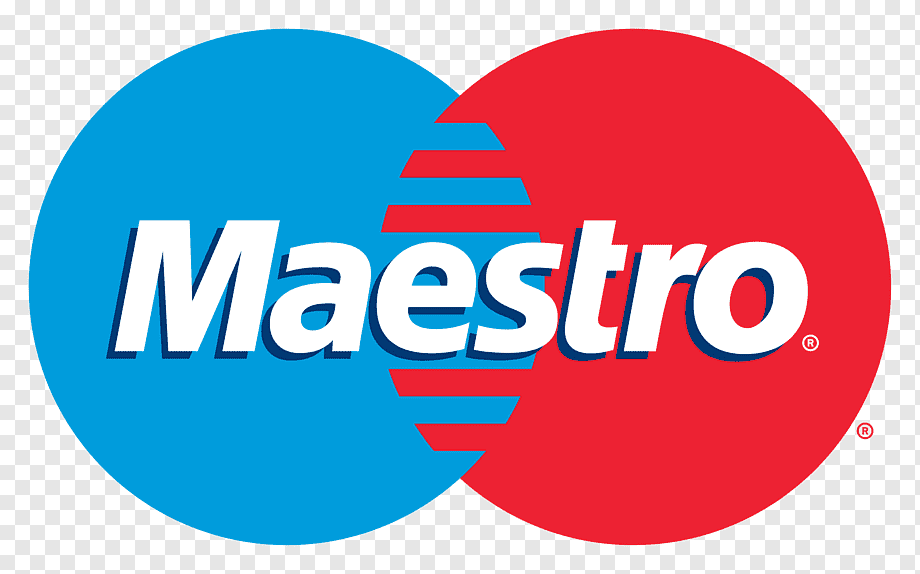
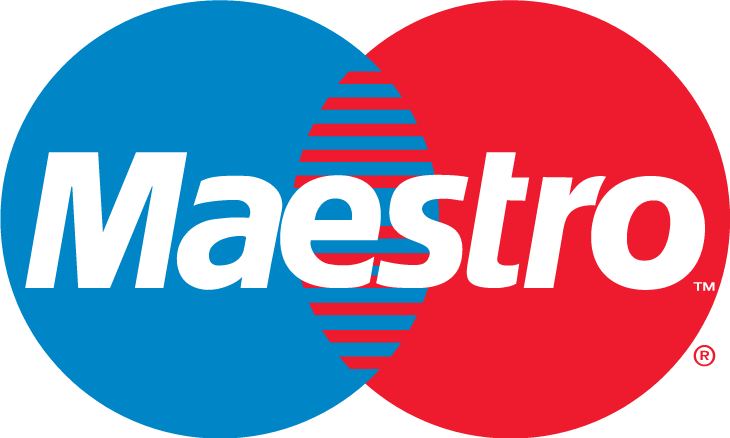
feat: add image changing on different card number of input

diff --git a/src/app/components/Modal/Modal.ts b/src/app/components/Modal/Modal.ts
@@ -1,5 +1,5 @@
 import { Component } from '../component';
-import { tittles, personalData, cardData } from '../../constants/modal';
+import { tittles, personalData, cardData, imgSrc } from '../../constants/modal';
 import './Modal.scss';
 
 export class Modal extends Component {
@@ -55,9 +55,20 @@ export class Modal extends Component {
           '',
         );
       };
+      if (i === 0) {
+        input.node.addEventListener('input', () => {
+          const curValue = (input.node as HTMLInputElement).value;
+          if (+curValue[0] > 3 && +curValue[0] < 7) {
+            const newSrc = imgSrc[+curValue[0] - 3];
+            logo.node.setAttribute('src', newSrc);
+          } else if (+curValue[0] <= 3 || +curValue[0] >= 7 || curValue.length === 0) {
+            logo.node.setAttribute('src', imgSrc[0]);
+          }
+        });
+      }
     });
 
-    logo.node.setAttribute('src', '../../../assets/img/maestro.png');
+    logo.node.setAttribute('src', imgSrc[0]);
 
     const cardValidity = new Component(fieldset.node, 'div', 'card-validity');
     const cardInputs = new Component(cardValidity.node, 'div', 'card-inputs');

diff --git a/src/app/constants/modal.ts b/src/app/constants/modal.ts
@@ -9,3 +9,10 @@ export const tittles = {
 export const personalData = ['name', 'phone number', 'delivery address', 'e-mail'];
 
 export const cardData = ['Expire', 'Cvc'];
+
+export const imgSrc = [
+  '../../../assets/img/pay-system.png',
+  '../../../assets/img/visa.png',
+  '../../../assets/img/mastercard.png',
+  '../../../assets/img/maestro.png',
+];

diff --git a/src/app/components/Modal/Modal.scss b/src/app/components/Modal/Modal.scss
@@ -78,6 +78,8 @@
   }
   &-logo {
     width: 50px;
+    height: 50px;
+    object-fit: contain;
     border-radius: 5px;
   }
   &-bank {
